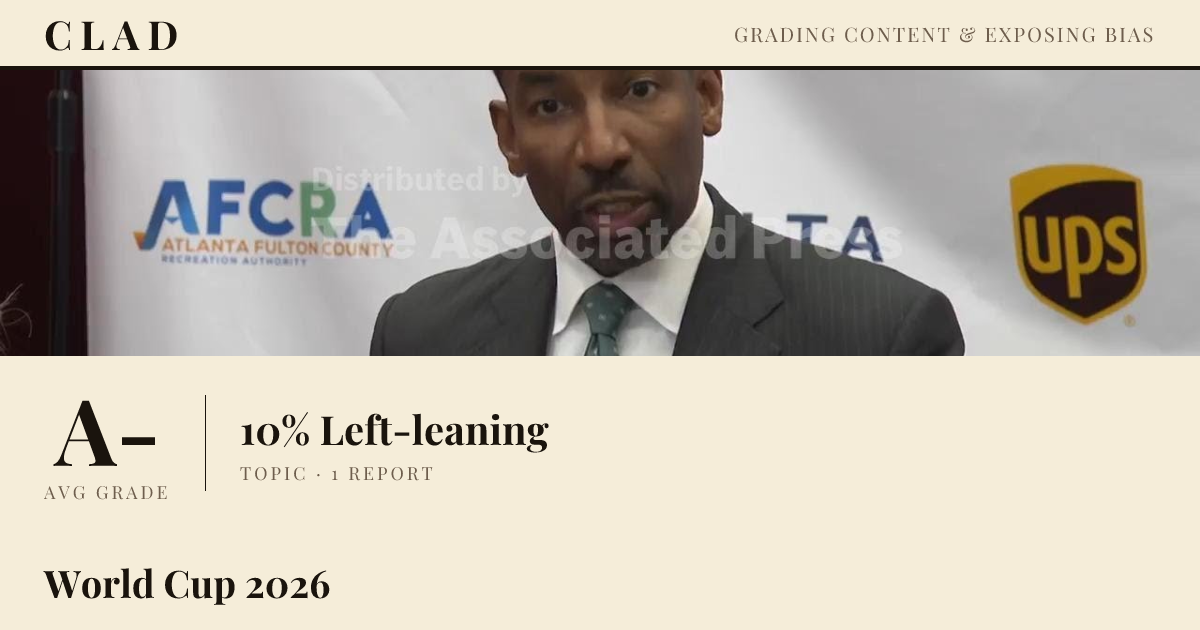
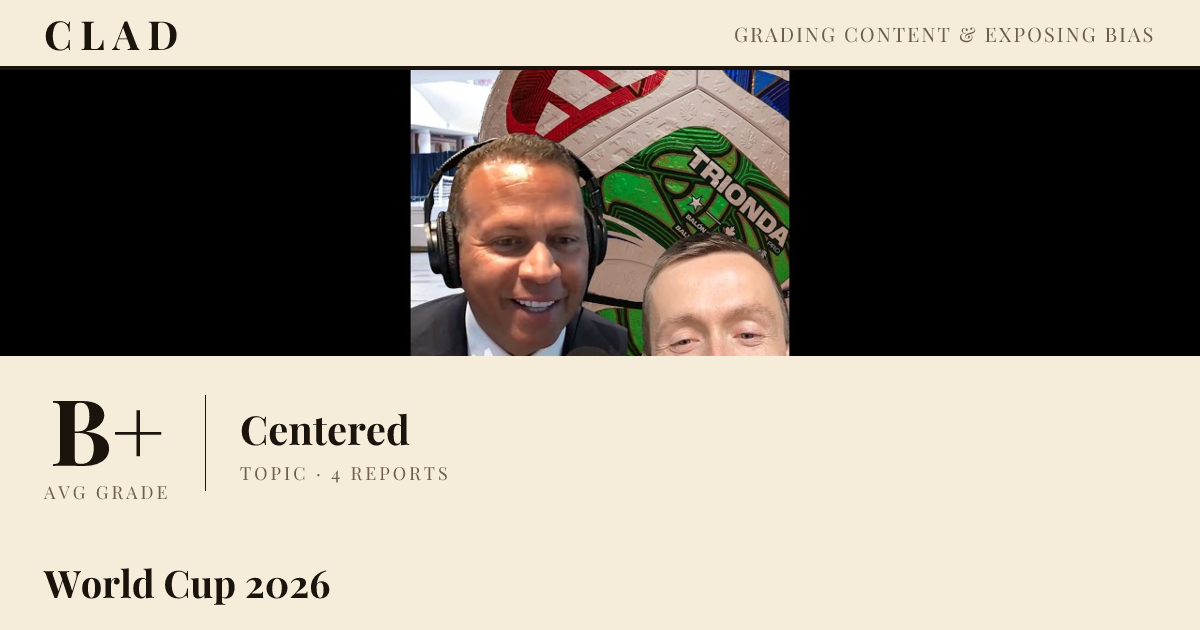
Group articles into broad topic buckets
Grok tags very specific topics ("US-Iran deal", "SpaceX IPO", "SpaceX
launches"), fragmenting the Topics section (~102 distinct). Fold topics
into a curated set of broad canonical buckets (Iran, Israel & Gaza,
SpaceX, AI & Tech, Markets, Economy, Elections, Courts & Law, etc.)
before clustering. Cuts ~102 topics to ~43 tiles with well-populated
groups; long-tail stories keep their own tile. Mirrored in topicsAgg.mjs
so OG topic-card slugs match the pages.

diff --git a/src/lib/topics.ts b/src/lib/topics.ts
@@ -68,12 +68,45 @@ function topicSim(a: Set<string>, b: Set<string>): number {
   return inter / (a.size + b.size - inter);
 }
 
+// Broad canonical buckets: Grok tags articles with very specific topics ("US-Iran
+// deal", "SpaceX IPO", "SpaceX launches"…), which fragments the Topics section.
+// We fold a topic into a broad bucket when it matches; order matters (most
+// specific first). Anything unmatched falls through to token clustering below.
+const TOPIC_BUCKETS: [RegExp, string][] = [
+  [/\biran\b|hormuz|tehran|jcpoa/i, "Iran"],
+  [/gaza|israel|hamas|\bidf\b|hezbollah|netanyahu|west bank/i, "Israel & Gaza"],
+  [/ukraine|russia|putin|zelensky|kremlin/i, "Ukraine & Russia"],
+  [/\bchina\b|taiwan|xi jinping|south china|beijing/i, "China"],
+  [/spacex|starship|starlink/i, "SpaceX"],
+  [/tesla|cybertruck|cybercab|\bfsd\b/i, "Tesla"],
+  [/artificial intelligence|\bai\b|openai|anthropic|\bgrok\b|chatgpt|\bllm\b|gemini|nvidia|data center/i, "AI & Tech"],
+  [/bitcoin|crypto|ethereum|\bbtc\b/i, "Crypto"],
+  [/stock|wall street|s&p|nasdaq|\bdow\b|\bipo\b|earnings|\bmarket\b/i, "Markets"],
+  [/inflation|federal reserve|\bfed\b|interest rate|jobs report|\beconomy\b|housing|tariff|\bgdp\b|recession/i, "Economy"],
+  [/election|mayoral|primary|ballot|\bvoter|\bpoll/i, "Elections"],
+  [/supreme court|scotus|\bcourt\b|lawsuit|\bdoj\b|indictment|ruling|\bjudge/i, "Courts & Law"],
+  [/immigration|\bborder\b|deportation|uscis|\bvisa\b|migrant|ice raid/i, "Immigration"],
+  [/congress|senate|filibuster|shutdown|\bspeaker\b/i, "Congress"],
+  [/\bufc\b/i, "White House UFC"],
+  [/\bg7\b|\bg20\b|\bnato\b|\bsummit\b|foreign policy|diplomacy/i, "Foreign Policy"],
+  [/\bmusk\b/i, "Elon Musk"],
+  [/newsom|desantis|\bharris\b|\bbiden\b/i, "US Politics"],
+  [/\btrump\b/i, "Trump"],
+];
+function bucketize(topic: string): string | null {
+  for (const [re, label] of TOPIC_BUCKETS) if (re.test(topic)) return label;
+  return null;
+}
+function canonicalTopic(t: string): string {
+  return bucketize(t) ?? t.trim();
+}
+
 export function aggregateTopics(posts: CollectionEntry<"posts">[]): TopicAgg[] {
   // 1) group articles by exact topic string
   const byTopic = new Map<string, CollectionEntry<"posts">[]>();
   for (const p of posts) {
     for (const t of p.data.topics ?? []) {
-      const key = t.trim();
+      const key = canonicalTopic(t);
       if (!key) continue;
       if (!byTopic.has(key)) byTopic.set(key, []);
       byTopic.get(key)!.push(p);
@@ -105,8 +138,9 @@ export function aggregateTopics(posts: CollectionEntry<"posts">[]): TopicAgg[] {
   //    groups.
   const map = new Map<string, { display: string; slug: string; posts: CollectionEntry<"posts">[] }>();
   for (const p of posts) {
-    const primary = (p.data.topics?.[0] ?? "").trim();
-    if (!primary) continue;
+    const primaryRaw = (p.data.topics?.[0] ?? "").trim();
+    if (!primaryRaw) continue;
+    const primary = canonicalTopic(primaryRaw);
     const canon = canonOf.get(primary) ?? primary;
     const slug = topicSlug(canon);
     if (!slug) continue;